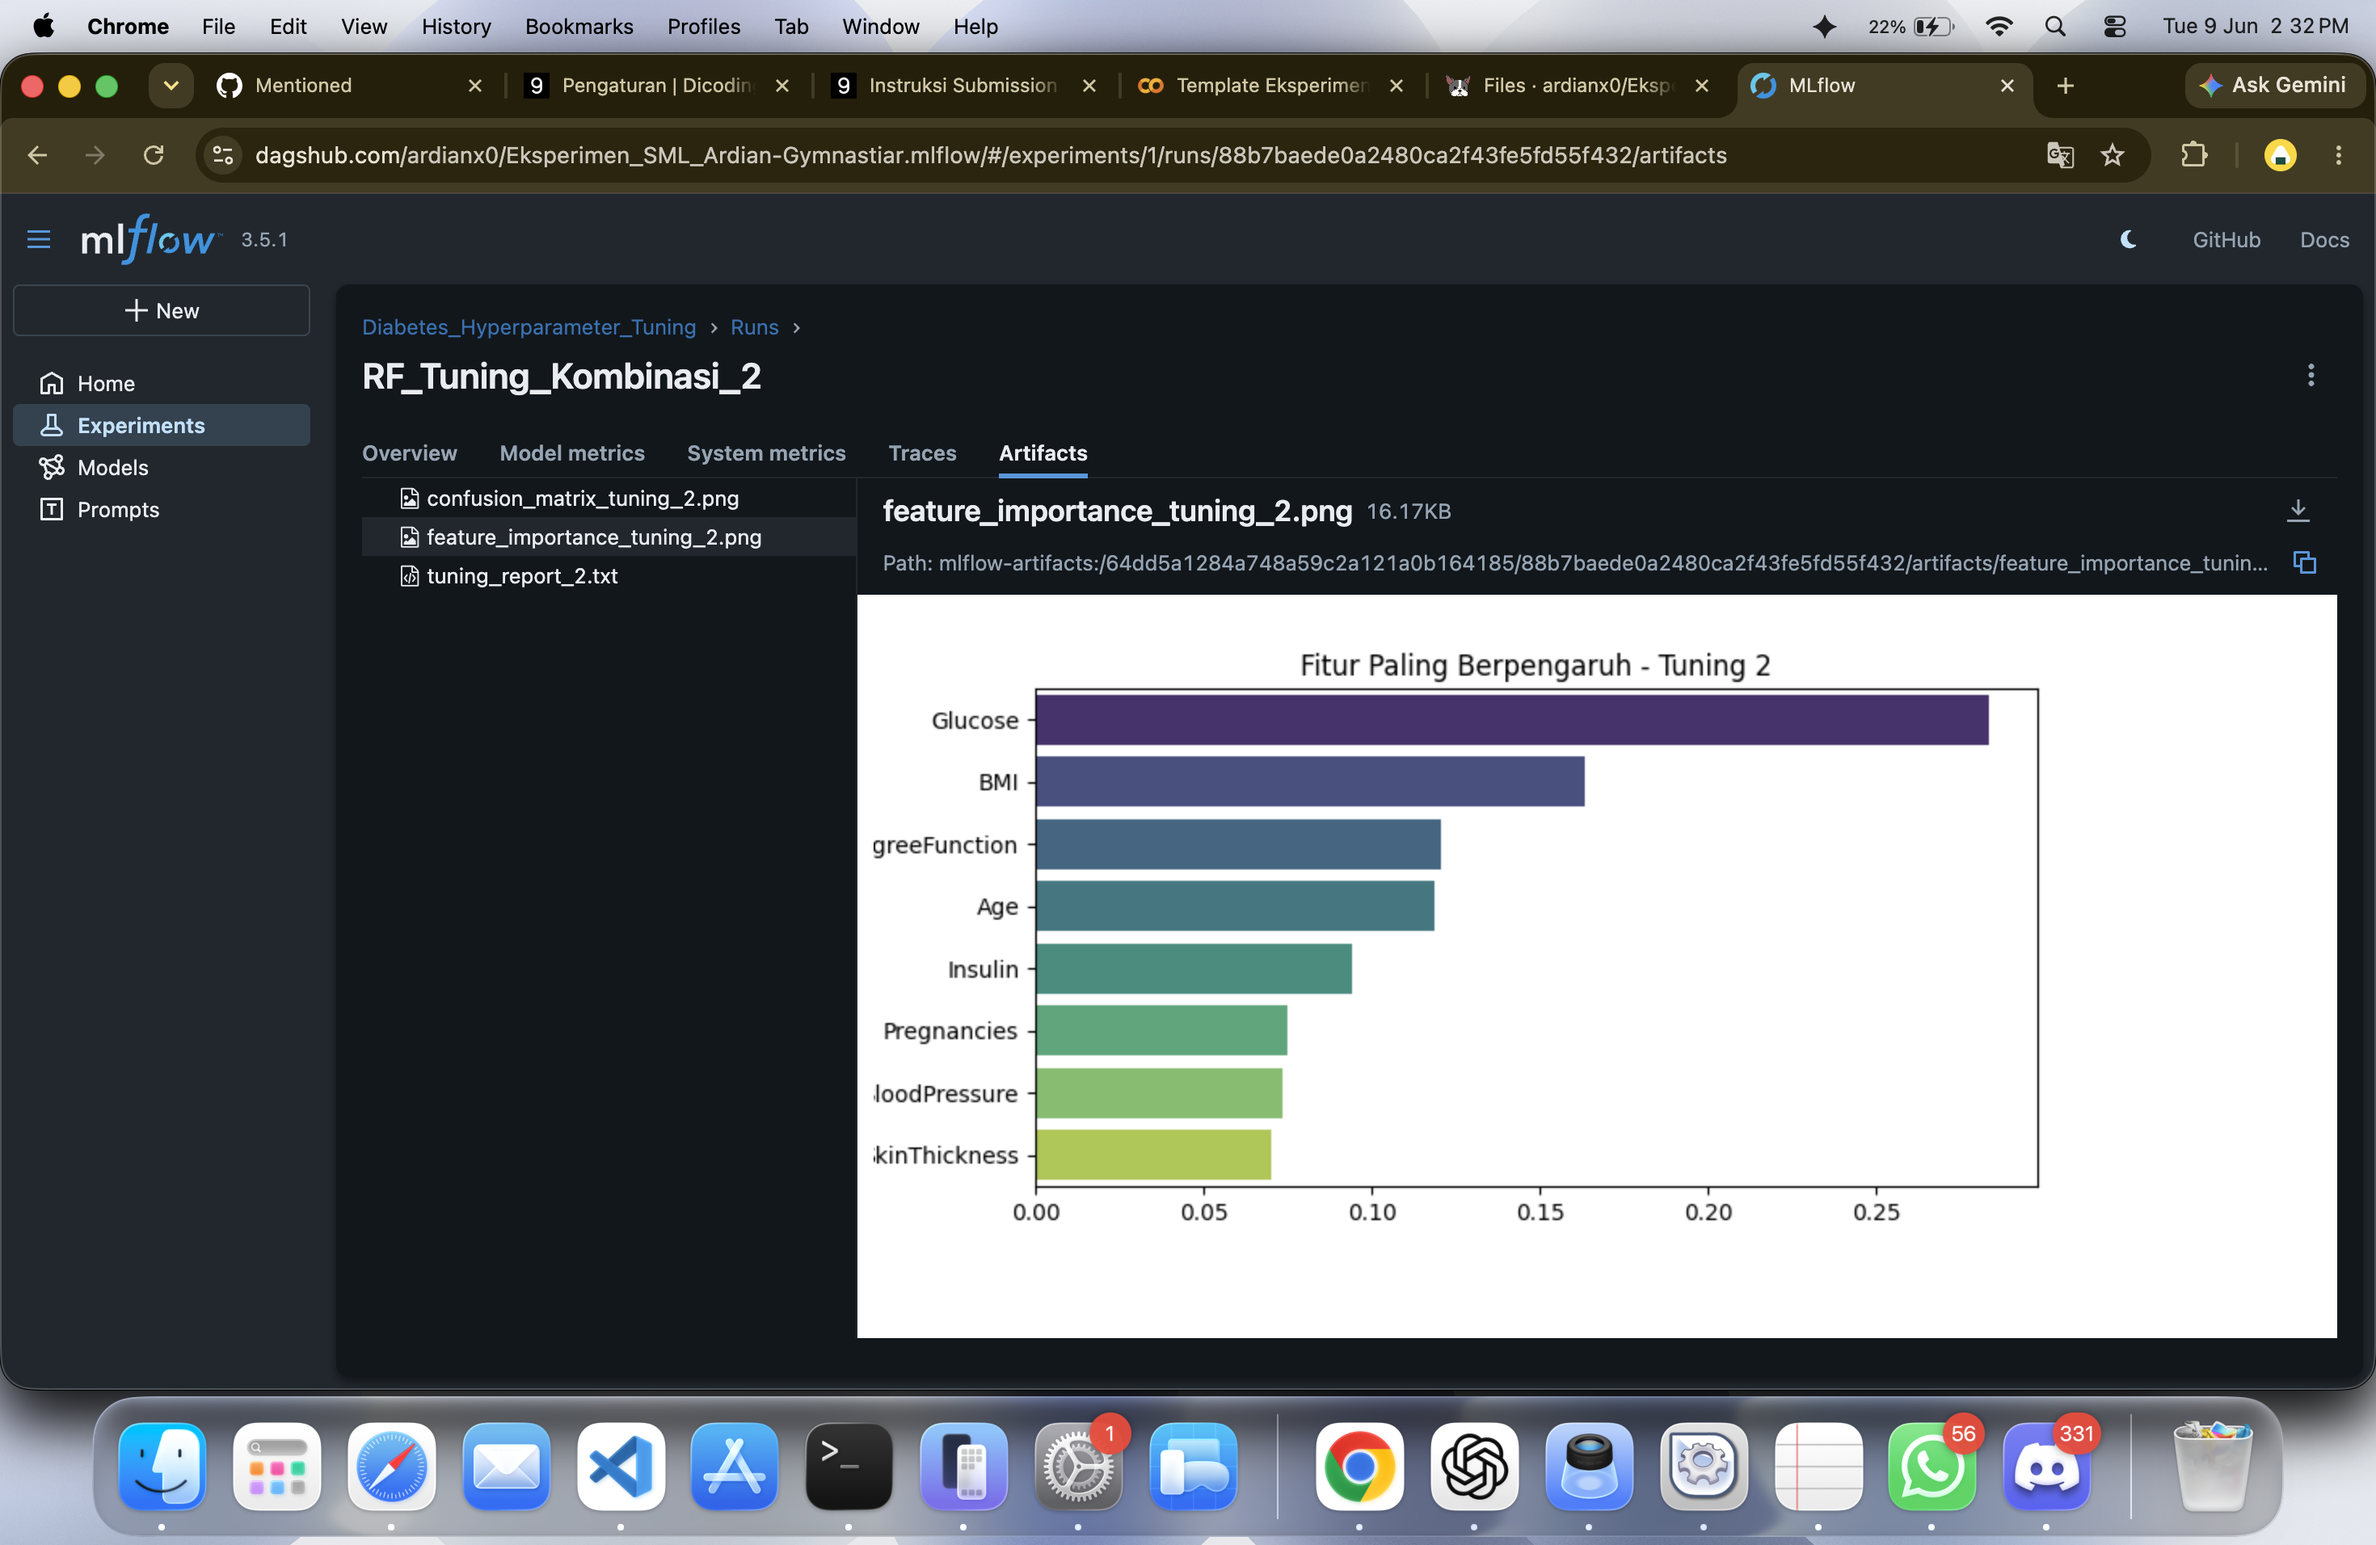
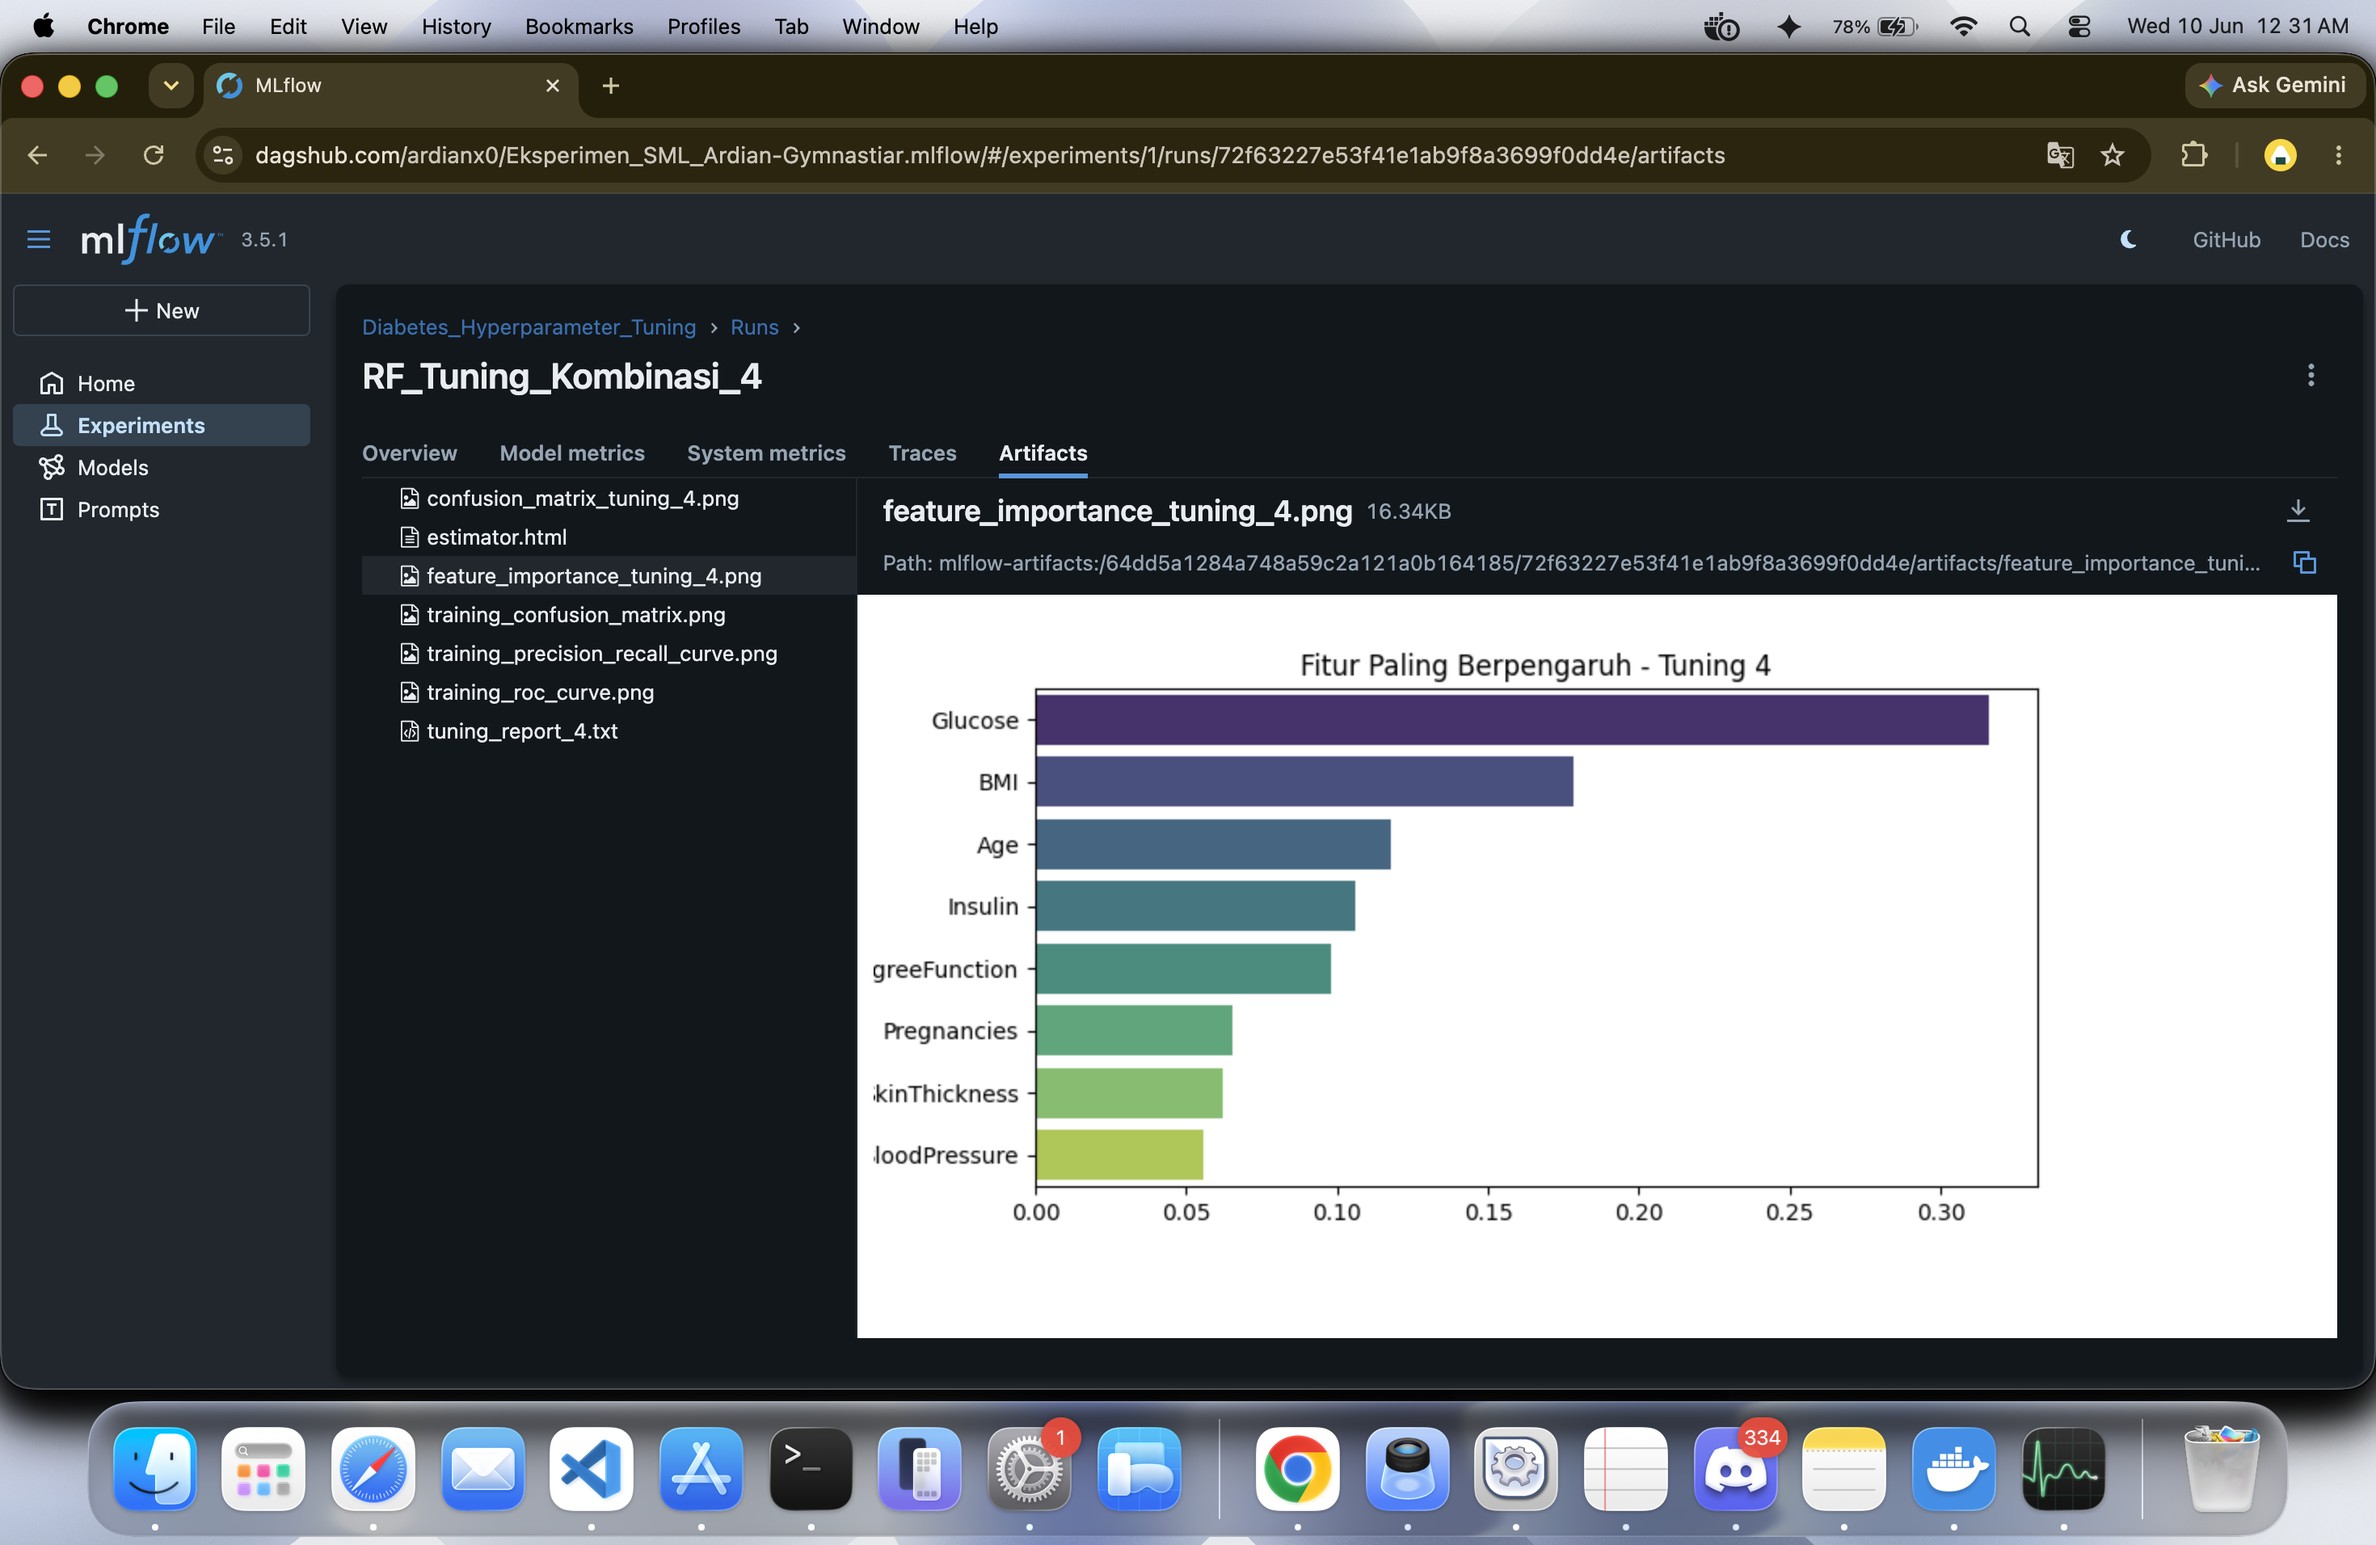
feat: implement mlflow autolog and fix visualization state in modelling tuning

diff --git a/Membangun_model/modelling.py b/Membangun_model/modelling.py
@@ -1,98 +1,27 @@
-import os
-import pandas as pd
-import numpy as np
-import matplotlib.pyplot as plt
-import seaborn as sns
+import mlflow
+import mlflow.sklearn  # Sesuaikan jika menggunakan framework lain seperti xgboost / tensorflow
 from sklearn.model_selection import train_test_split
 from sklearn.ensemble import RandomForestClassifier
-from sklearn.metrics import accuracy_score, precision_score, recall_score, f1_score, confusion_matrix
-import mlflow
-import mlflow.sklearn
-import dagshub
+import pandas as pd
 
-def main():
-    repo_owner = "ardianx0"
-    repo_name = "Eksperimen_SML_Ardian-Gymnastiar"
-    
-    print("Menghubungkan ke DagsHub Tracking URI...")
-    dagshub.init(repo_owner=repo_owner, repo_name=repo_name, mlflow=True)
-    mlflow.set_experiment("Diabetes_Baseline_Model")
-    
-    # Membaca dataset dari folder kriteria 1 kamu
-    data_path = os.path.join("preprocessing", "diabetes_preprocessing", "diabetes_clean.csv")
-    if not os.path.exists(data_path):
-        raise FileNotFoundError(f"Data bersih tidak ditemukan di {data_path}!")
-        
-    df = pd.read_csv(data_path)
-    X = df.drop(columns=['Outcome'])
-    y = df['Outcome']
-    
-    X_train, X_test, y_train, y_test = train_test_split(X, y, test_size=0.2, random_state=42, stratify=y)
-    
-    n_estimators = 50
-    max_depth = 5
-    
-    with mlflow.start_run(run_name="Random_Forest_Baseline"):
-        print("Melatih model Random Forest Baseline...")
-        model = RandomForestClassifier(n_estimators=n_estimators, max_depth=max_depth, random_state=42)
-        model.fit(X_train, y_train)
-        
-        y_pred = model.predict(X_test)
-        y_pred_proba = model.predict_proba(X_test)[:, 1]
-        
-        acc = accuracy_score(y_test, y_pred)
-        prec = precision_score(y_test, y_pred)
-        rec = recall_score(y_test, y_pred)
-        f1 = f1_score(y_test, y_pred)
-        
-        print(f"Hasil Evaluasi -> Accuracy: {acc:.4f}, Precision: {prec:.4f}, Recall: {rec:.4f}, F1-Score: {f1:.4f}")
-        
-        # Logging parameter & metrik secara manual sesuai kriteria
-        mlflow.log_param("model_type", "RandomForestClassifier")
-        mlflow.log_param("n_estimators", n_estimators)
-        mlflow.log_param("max_depth", max_depth)
-        mlflow.log_metric("accuracy", acc)
-        mlflow.log_metric("precision", prec)
-        mlflow.log_metric("recall", rec)
-        mlflow.log_metric("f1_score", f1)
-        
-        # Pembuatan Artefak 1: Confusion Matrix
-        cm = confusion_matrix(y_test, y_pred)
-        plt.figure(figsize=(6, 5))
-        sns.heatmap(cm, annot=True, fmt='d', cmap='Blues', xticklabels=['Sehat', 'Diabetes'], yticklabels=['Sehat', 'Diabetes'])
-        plt.title('Confusion Matrix - Baseline Model')
-        plt.ylabel('Aktual')
-        plt.xlabel('Prediksi')
-        cm_path = "confusion_matrix_baseline.png"
-        plt.savefig(cm_path)
-        plt.close()
-        mlflow.log_artifact(cm_path)
-        os.remove(cm_path)
-        
-        # Artefak Tambahan 1: Grafik Distribusi Probabilitas Prediksi
-        plt.figure(figsize=(7, 4))
-        sns.histplot(y_pred_proba, kde=True, color='purple', bins=15)
-        plt.title('Distribusi Probabilitas Prediksi Diabetes')
-        plt.xlabel('Probabilitas Prediksi')
-        plt.ylabel('Frekuensi')
-        prob_path = "prediction_probabilities.png"
-        plt.savefig(prob_path)
-        plt.close()
-        mlflow.log_artifact(prob_path)
-        os.remove(prob_path)
-        
-        # Artefak Tambahan 2: File Ringkasan Teks
-        summary_path = "summary_report.txt"
-        with open(summary_path, "w") as f:
-            f.write("=== LAPORAN EVALUASI MODEL DIABETES ===\n")
-            f.write(f"Model: Random Forest Baseline\n")
-            f.write(f"Akurasi Pengujian: {acc:.4f}\n")
-            f.write(f"F1-Score Pengujian: {f1:.4f}\n")
-        mlflow.log_artifact(summary_path)
-        os.remove(summary_path)
-        
-        mlflow.sklearn.log_model(model, "model")
-        print("Eksperimen model baseline berhasil dicatat di DagsHub!")
+# 1. Inisialisasi Experiment MLflow
+mlflow.set_experiment("Diabetes_Prediction_Experiment")
 
-if __name__ == "__main__":
-    main()
+# 2. WAJIB: Aktifkan Fitur Autolog Sebelum Training Dimulai
+mlflow.autolog()
+
+# Load Data
+data = pd.read_csv("diabetes.csv")
+X = data.drop(columns=["Outcome"])
+y = data["Outcome"]
+X_train, X_test, y_train, y_test = train_test_split(X, y, test_size=0.2, random_state=42)
+
+# 3. Jalankan MLflow Run Context
+with mlflow.start_run():
+    # Model secara otomatis dicatat parameternya oleh autolog saat fitting
+    model = RandomForestClassifier(n_estimators=100, max_depth=5, random_state=42)
+    model.fit(X_train, y_train)
+    
+    # Evaluasi model (Metriks pengujian juga otomatis tercatat)
+    accuracy = model.score(X_test, y_test)
+    print(f"Model Training Selesai. Accuracy: {accuracy}")

diff --git a/Membangun_model/modelling_tuning.py b/Membangun_model/modelling_tuning.py
@@ -18,6 +18,8 @@ def main():
     dagshub.init(repo_owner=repo_owner, repo_name=repo_name, mlflow=True)
     mlflow.set_experiment("Diabetes_Hyperparameter_Tuning")
     
+    mlflow.autolog(log_model_signatures=True, log_input_examples=True, disable=False)
+    
     data_path = os.path.join("preprocessing", "diabetes_preprocessing", "diabetes_clean.csv")
     df = pd.read_csv(data_path)
     X = df.drop(columns=['Outcome'])
@@ -49,6 +51,7 @@ def main():
             
             print(f"Hasil -> Accuracy: {acc:.4f}, F1-Score: {f1:.4f}")
             
+            # Logging parameter dan metrik tambahan secara manual
             mlflow.log_param("model_type", "RandomForestClassifier_Tuned")
             mlflow.log_param("n_estimators", params['n_estimators'])
             mlflow.log_param("max_depth", params['max_depth'])
@@ -57,30 +60,31 @@ def main():
             mlflow.log_metric("recall", rec)
             mlflow.log_metric("f1_score", f1)
             
-            # Artefak Grafik: Confusion Matrix
+            # Artefak Grafik 1: Confusion Matrix
             cm = confusion_matrix(y_test, y_pred)
-            plt.figure(figsize=(6, 5))
-            sns.heatmap(cm, annot=True, fmt='d', cmap='Oranges', xticklabels=['Sehat', 'Diabetes'], yticklabels=['Sehat', 'Diabetes'])
-            plt.title(f'Confusion Matrix - Tuning {i+1}')
+            fig, ax = plt.subplots(figsize=(6, 5))  # Diperbaiki menggunakan subplots agar state bersih
+            sns.heatmap(cm, annot=True, fmt='d', cmap='Oranges', 
+                        xticklabels=['Sehat', 'Diabetes'], yticklabels=['Sehat', 'Diabetes'], ax=ax)
+            ax.set_title(f'Confusion Matrix - Tuning {i+1}')
             cm_path = f"confusion_matrix_tuning_{i+1}.png"
-            plt.savefig(cm_path)
-            plt.close()
+            fig.savefig(cm_path)
+            plt.close(fig)
             mlflow.log_artifact(cm_path)
             os.remove(cm_path)
             
-            # Artefak Tambahan 1: Feature Importance Plot (SUDAH DIPERBAIKI)
+            # Artefak Grafik 2: Feature Importance Plot
             importances = model.feature_importances_
             indices = np.argsort(importances)[::-1]
-            plt.figure(figsize=(8, 4))
-            sns.barplot(x=importances[indices], y=X.columns[indices], palette="viridis")
-            plt.title(f'Fitur Paling Berpengaruh - Tuning {i+1}')
+            fig2, ax2 = plt.subplots(figsize=(8, 4))  # Diperbaiki menggunakan instance gambar baru
+            sns.barplot(x=importances[indices], y=X.columns[indices], palette="viridis", ax=ax2)
+            ax2.set_title(f'Fitur Paling Berpengaruh - Tuning {i+1}')
             feat_path = f"feature_importance_tuning_{i+1}.png"
-            plt.savefig(feat_path)
-            plt.close()
+            fig2.savefig(feat_path)
+            plt.close(fig2)
             mlflow.log_artifact(feat_path)
             os.remove(feat_path)
             
-            # Artefak Tambahan 2: Ringkasan Laporan .txt
+            # Artefak Tambahan 3: Ringkasan Laporan .txt
             summary_path = f"tuning_report_{i+1}.txt"
             with open(summary_path, "w") as f:
                 f.write(f"=== LAPORAN TUNING JALUR {i+1} ===\n")
@@ -90,6 +94,7 @@ def main():
             mlflow.log_artifact(summary_path)
             os.remove(summary_path)
             
+            # Registrasi model final ke dalam komponen artifacts MLflow
             mlflow.sklearn.log_model(model, "model")
             
     print("\nSemua proses Hyperparameter Tuning sukses dicatat di DagsHub!")
